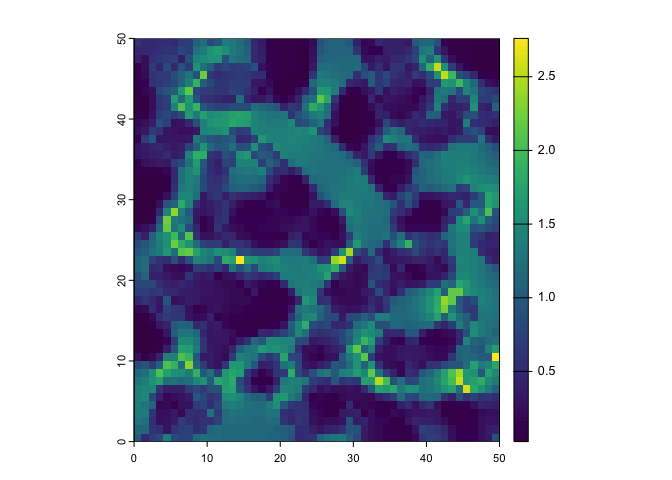
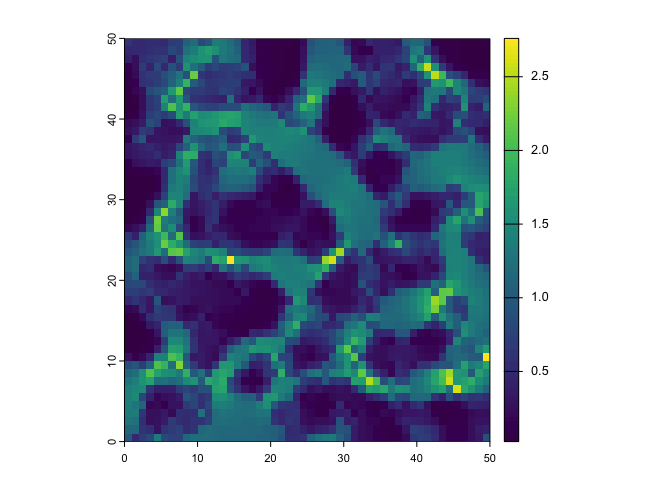
Update readme

Changed region(s): [[0.1562, 0.0625, 0.8438, 0.9688], [0.6562, 0.875, 0.6875, 0.9375]]

diff --git a/README.md b/README.md
@@ -29,8 +29,10 @@ from R, while Julia handles the heavy lifting under the hood.
 ## Installation
 
 ``` r
-# 1. Install the R package
-remotes::install_github("matthewkling/circuitscaper")
+# 1. Install the R package from CRAN
+install.packages("circuitscaper")
+# or install the development version from GitHub
+# remotes::install_github("matthewkling/circuitscaper")
 
 # 2. Let the package install Julia and the necessary Julia libraries
 library(circuitscaper)